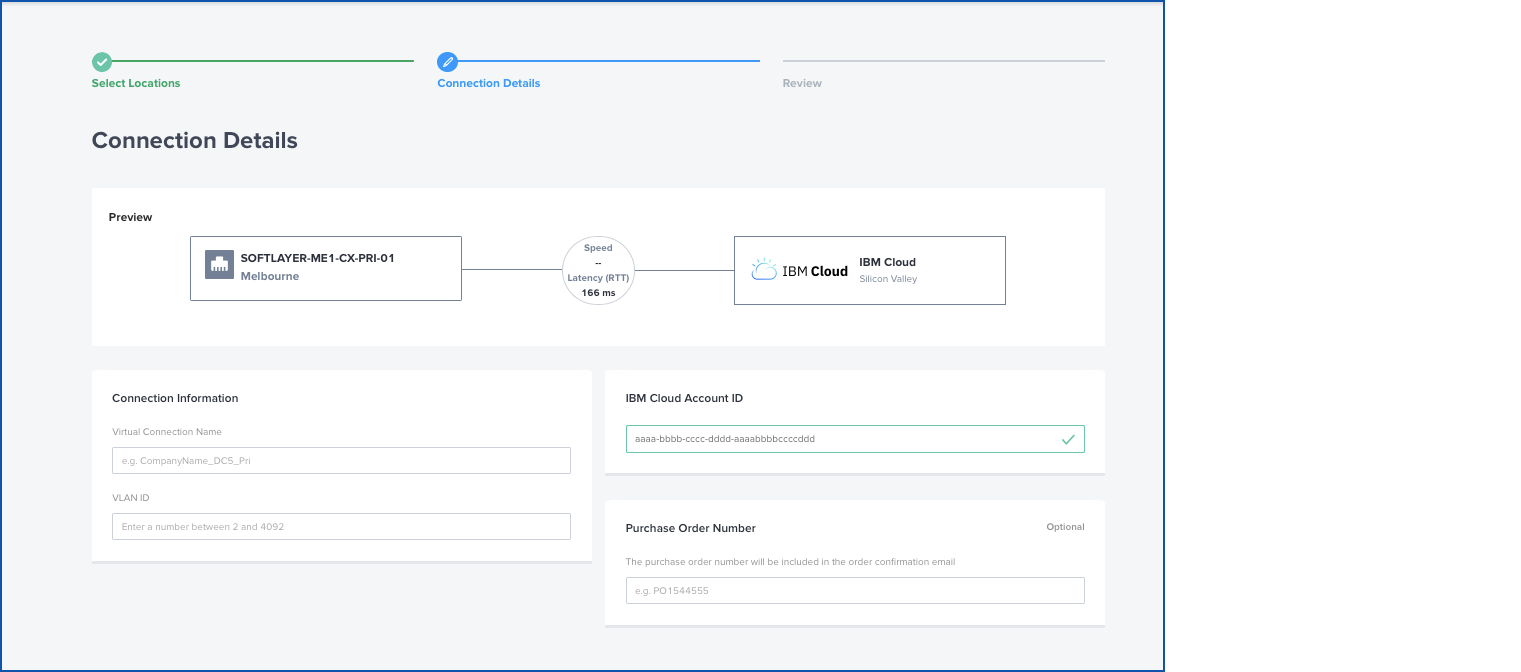
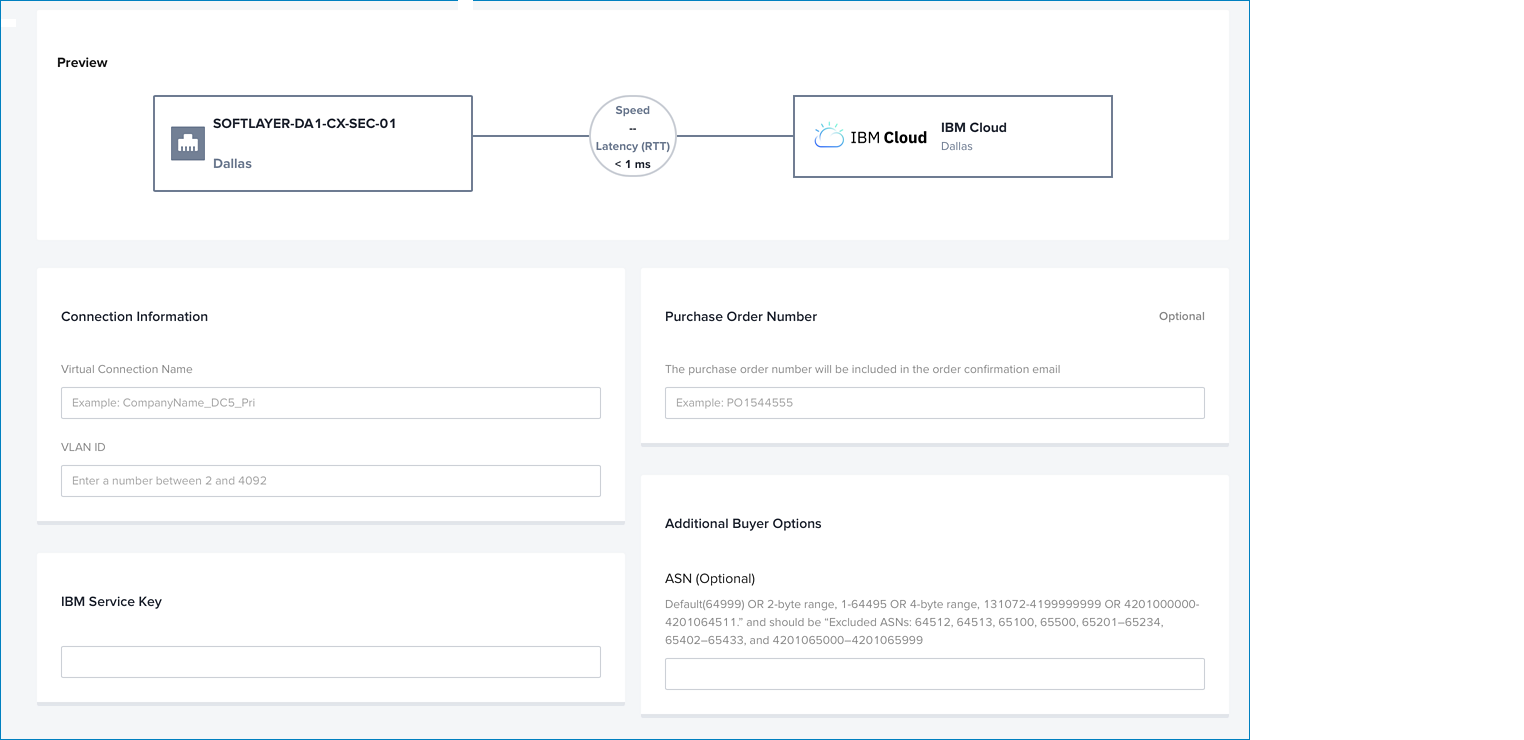
Equinix updates _ Trevino

diff --git a/dl-equinix.md b/dl-equinix.md
@@ -2,7 +2,7 @@
 
 copyright:
   years: 2020, 2021
-lastupdated: "2021-05-24"
+lastupdated: "2021-06-24"
 
 keywords:
 
@@ -50,15 +50,17 @@ For Exchange on Classic instructions, see [Steps to order Direct Link Exchange o
 
    ![Select a Port, Location, and Destination](/images/equinix-port.png "Select a Port, Location, and Destination")   
 1. Select a **Location**, followed by a **Destination**. Then, click **Next**.
-1. On the Connection Details page, enter the connection information. For the IBM Cloud Account ID, enter the service key (for example, `aaa-bbbb-cccc`) that was generated when you provisioned your direct link. This key can be found on the Direct Link details page.
+1. On the Connection Details page, enter the connection information. For the IBM Service Key, enter the service key (for example, `aaa-bbbb-cccc`) that was generated when you provisioned your direct link. This key can be found on the Direct Link details page.
 
-   ![Connection Details](/images/equinix-connection-details.png "Connection Details")   
+   ![Connection Details](/images/equinix-connection-details.png "Connection Details")      
 1. Select a **Connection Speed**, then click **Next**.   
 1. Review and click **Submit Your Order**.
 
 The IBM Special Network Services (SNS) team receives your request and is able approve the connection in the buyer-side portal. You can view your newly created virtual connection for Direct Link by going to **Connections**. The connection will be in a pending, provisioning state (**Pending Provider VLAN**).
 
-Accept the connection request by navigating to the IBM Cloud Direct Link page and clicking **Accept** from the Action menu. The virtual connection shows as **Provisioned** in the Equinix Fabric portal.
+Accept the connection request by navigating to the IBM Cloud Direct Link page and clicking **Accept** from the Actions menu. The virtual connection shows as **Provisioned** in the Equinix Fabric portal.
 
 The timeline for approval is within 24 hours. If the 24-hour Service Level Agreement (SLA) is not acceptable, you can [create an IBM Support case](https://cloud.ibm.com/unifiedsupport/cases/form) and request that it be routed to the SNS team.
+
+Optionally, you can enable BGP MD5 authentication to provide additional security for the BGP session. For more information, see [Accepting provider-created connections](/docs/dl?topic=dl-accepting-the-provider-created-connection).
 {: note}
